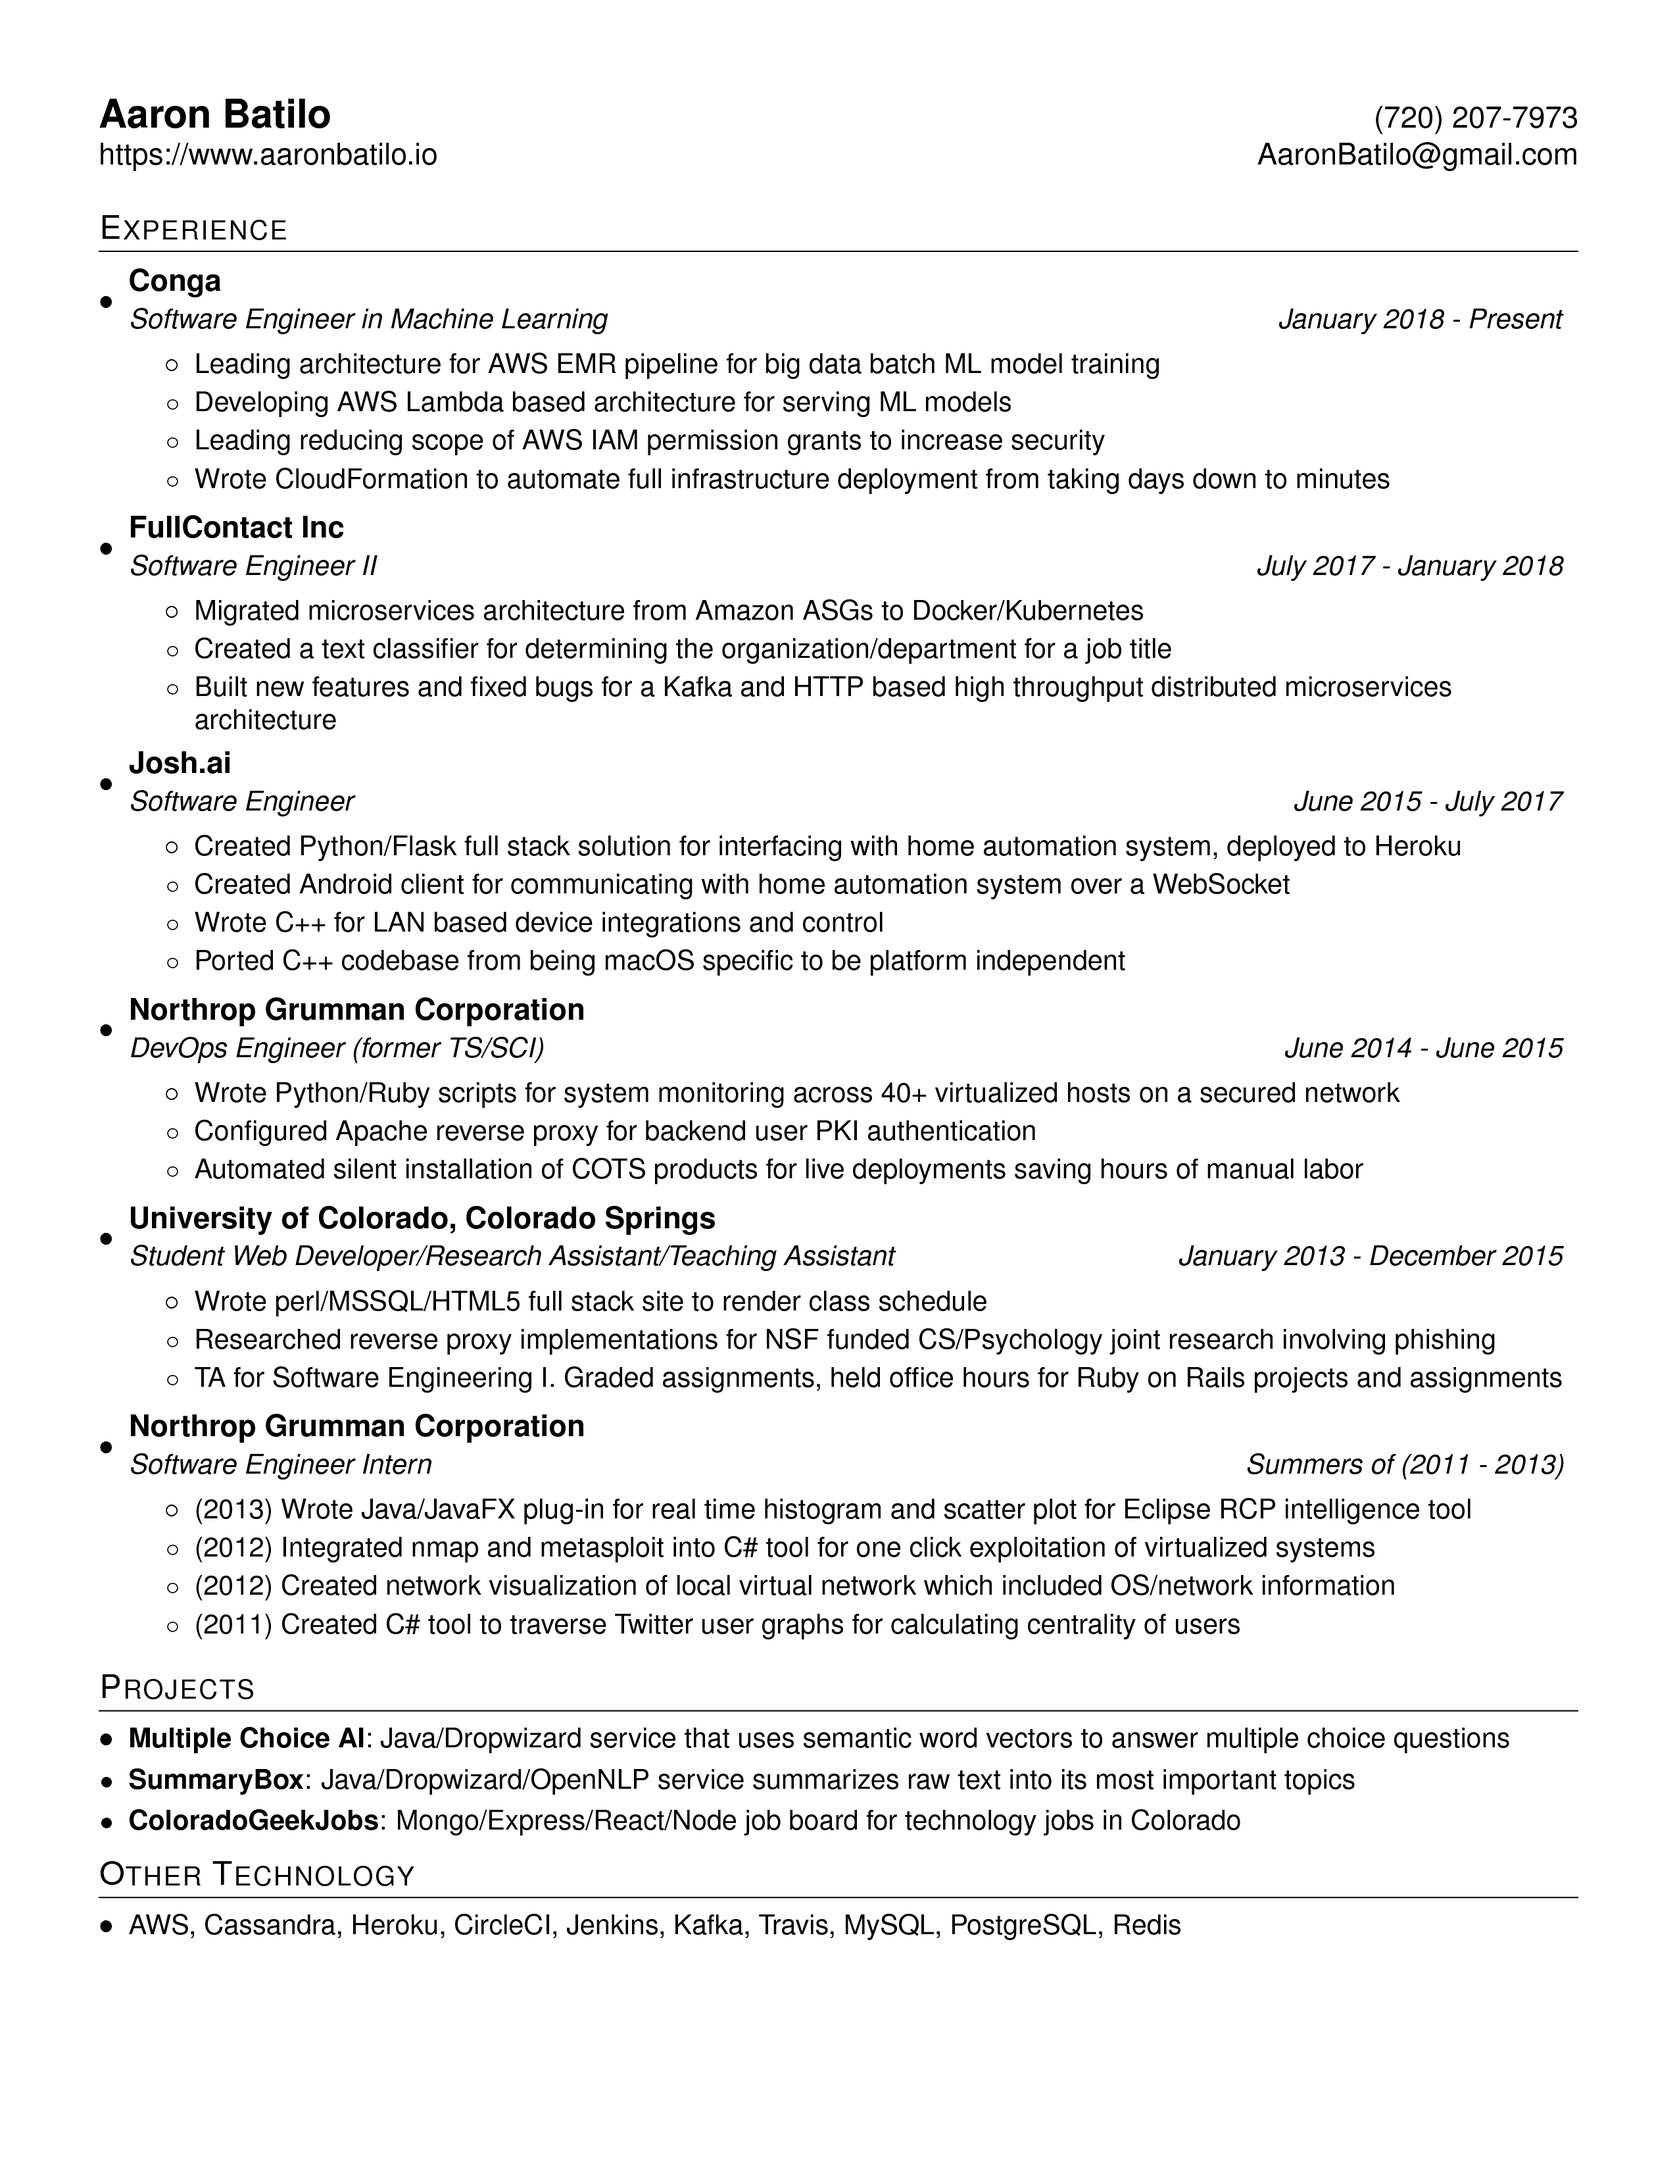
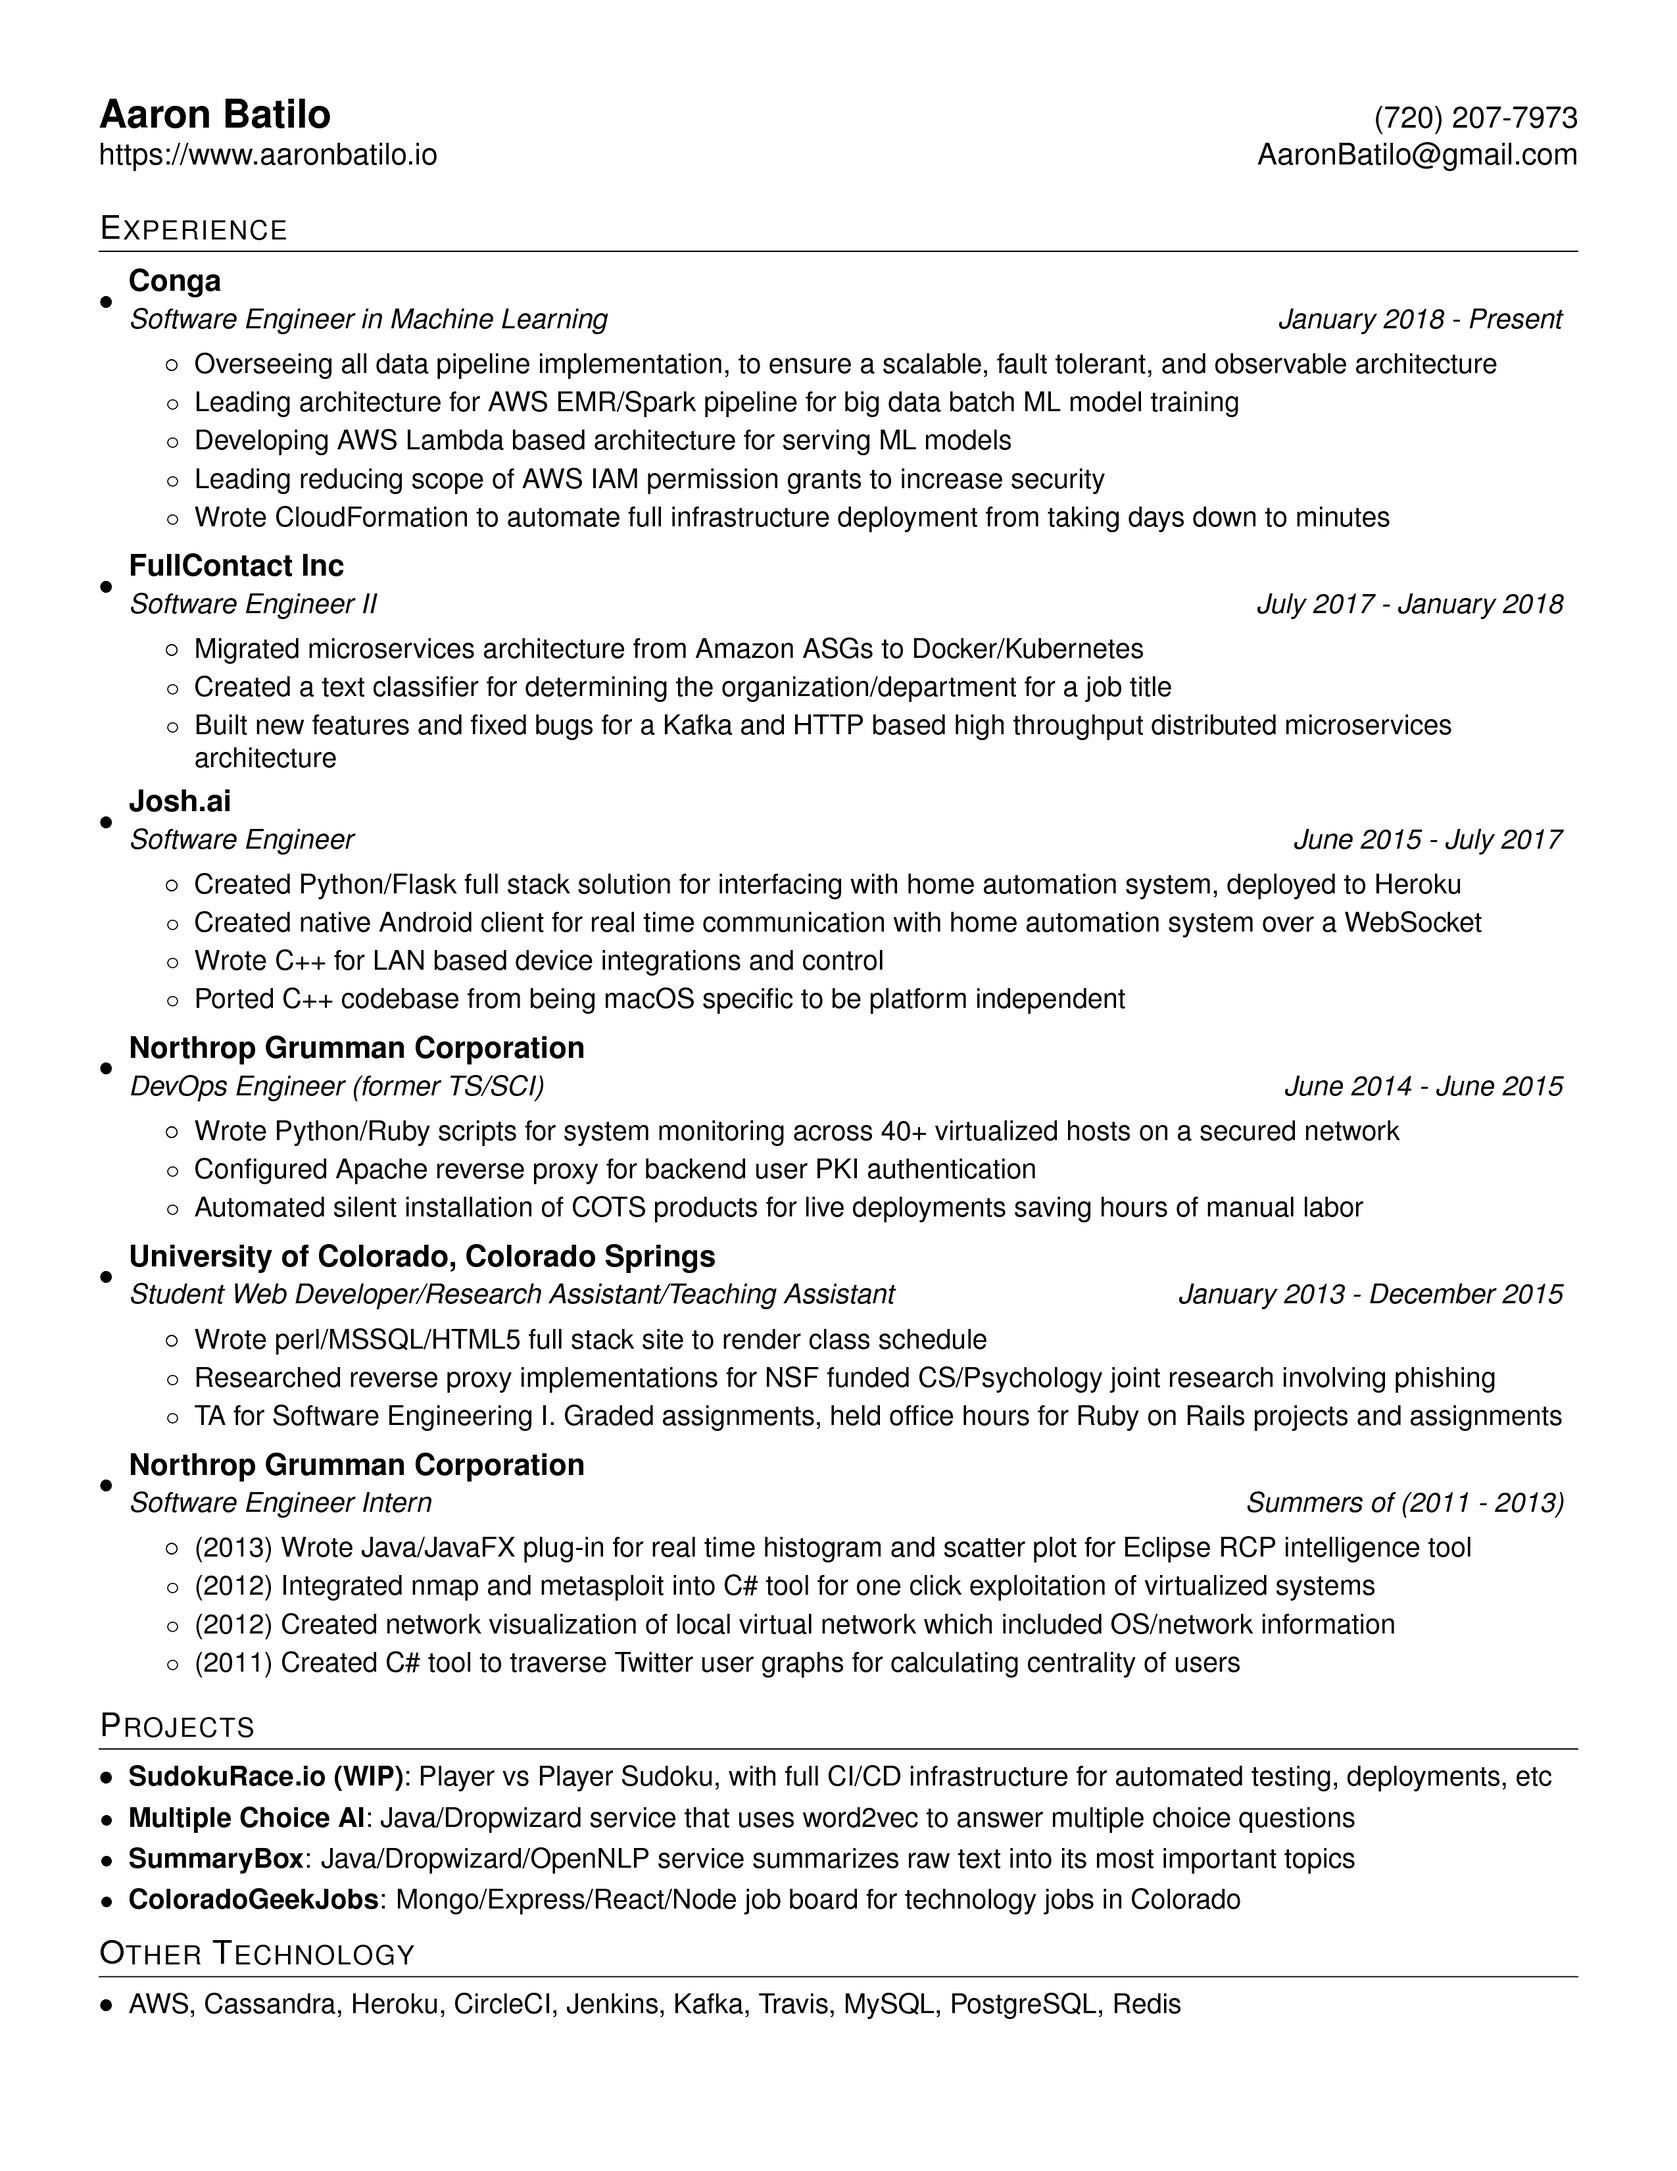
Add SudokuRace project
SudokuRace is one of my most sophisticated CI/CD infrastructures to
date:
https://www.github.com/abatilo/sudoku-race

diff --git a/resume.tex b/resume.tex
@@ -95,7 +95,8 @@
       {Conga}
       {Software Engineer in Machine Learning}{January 2018 - Present}
       \resumeItemListStart
-        \resumeItemNoBold {Leading architecture for AWS EMR pipeline for big data batch ML model training}
+        \resumeItemNoBold {Overseeing all data pipeline implementation, to ensure a scalable, fault tolerant, and observable architecture}
+        \resumeItemNoBold {Leading architecture for AWS EMR/Spark pipeline for big data batch ML model training}
         \resumeItemNoBold {Developing AWS Lambda based architecture for serving ML models}
         \resumeItemNoBold {Leading reducing scope of AWS IAM permission grants to increase security}
         \resumeItemNoBold {Wrote CloudFormation to automate full infrastructure deployment from taking days down to minutes}
@@ -119,7 +120,7 @@
       \resumeItemListStart
         \resumeItemNoBold{Created Python/Flask full stack solution for
         interfacing with home automation system, deployed to Heroku}
-        \resumeItemNoBold{Created Android client for communicating with home
+        \resumeItemNoBold{Created native Android client for real time communication with home
         automation system over a WebSocket}
         \resumeItemNoBold{Wrote C++ for LAN based device integrations and
         control}
@@ -170,8 +171,11 @@
 %-----------PROJECTS-----------------
 \section{Projects}
   \resumeSubHeadingListStart
+    \resumeSubItem{SudokuRace.io (WIP)}
+      {Player vs Player Sudoku, with full CI/CD infrastructure for automated
+      testing, deployments, etc}
     \resumeSubItem{Multiple Choice AI}
-      {Java/Dropwizard service that uses semantic word vectors to answer
+      {Java/Dropwizard service that uses word2vec to answer
       multiple choice questions}
     \resumeSubItem{SummaryBox}
       {Java/Dropwizard/OpenNLP service summarizes raw text into its most
